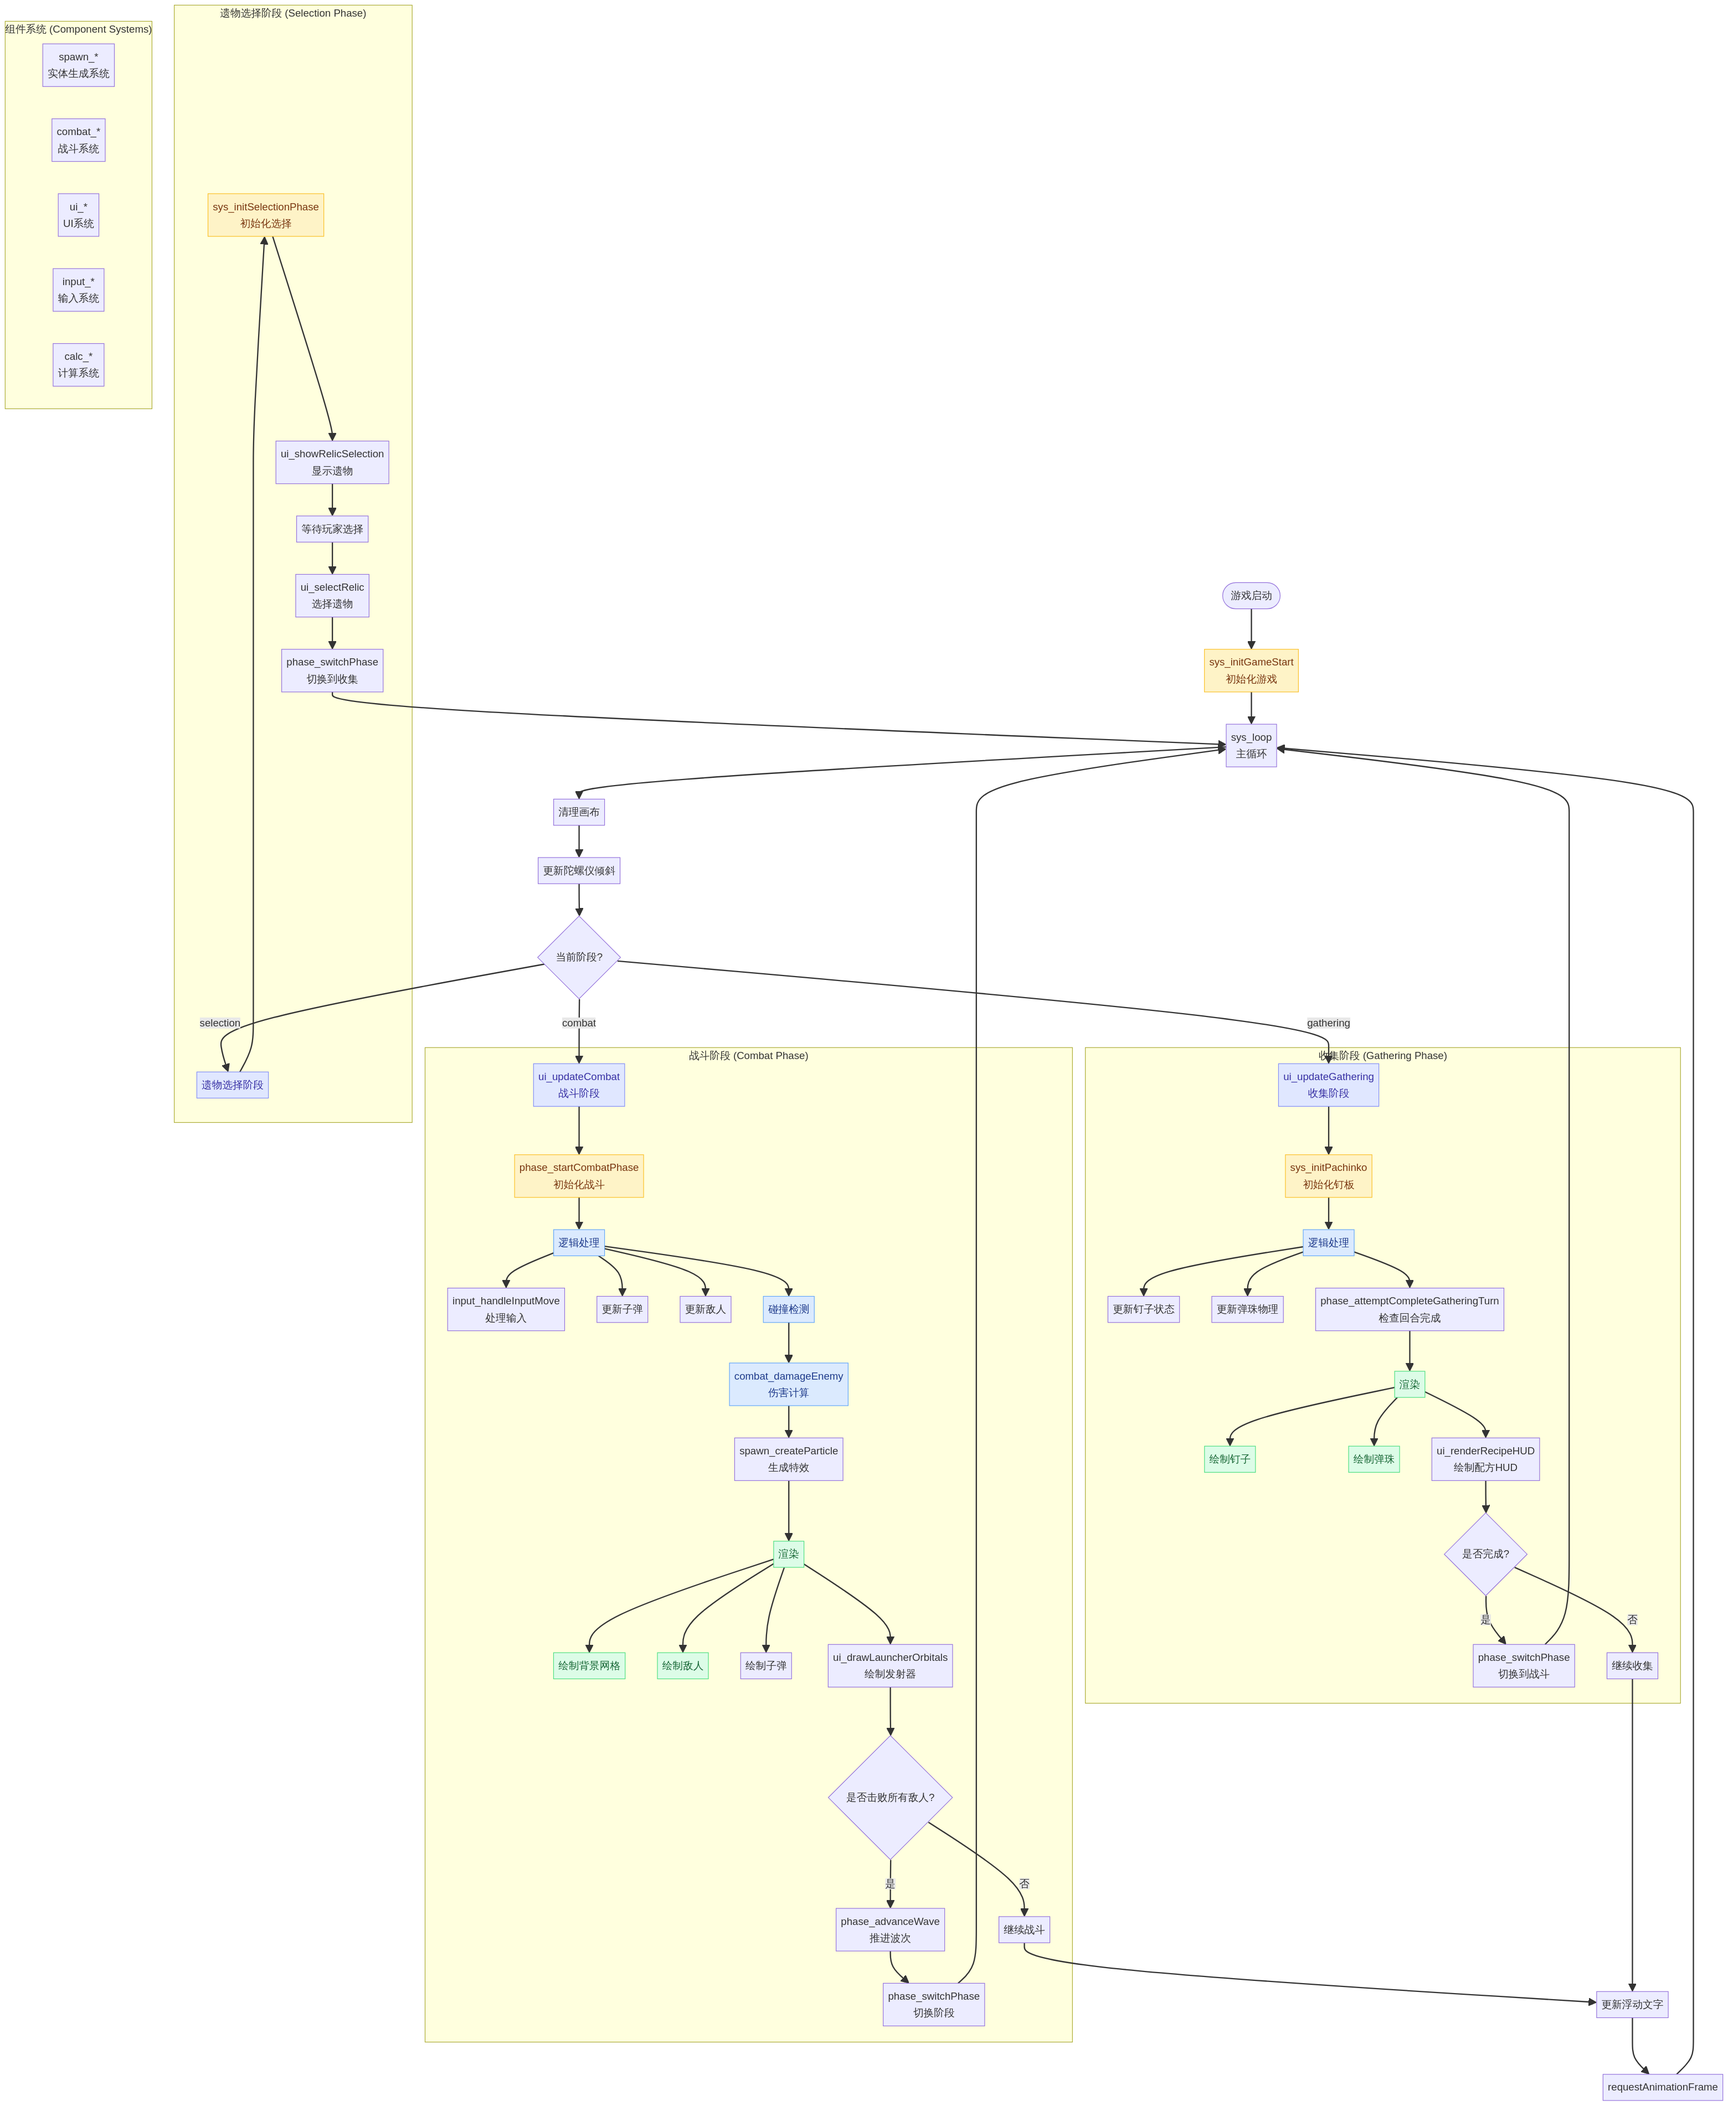
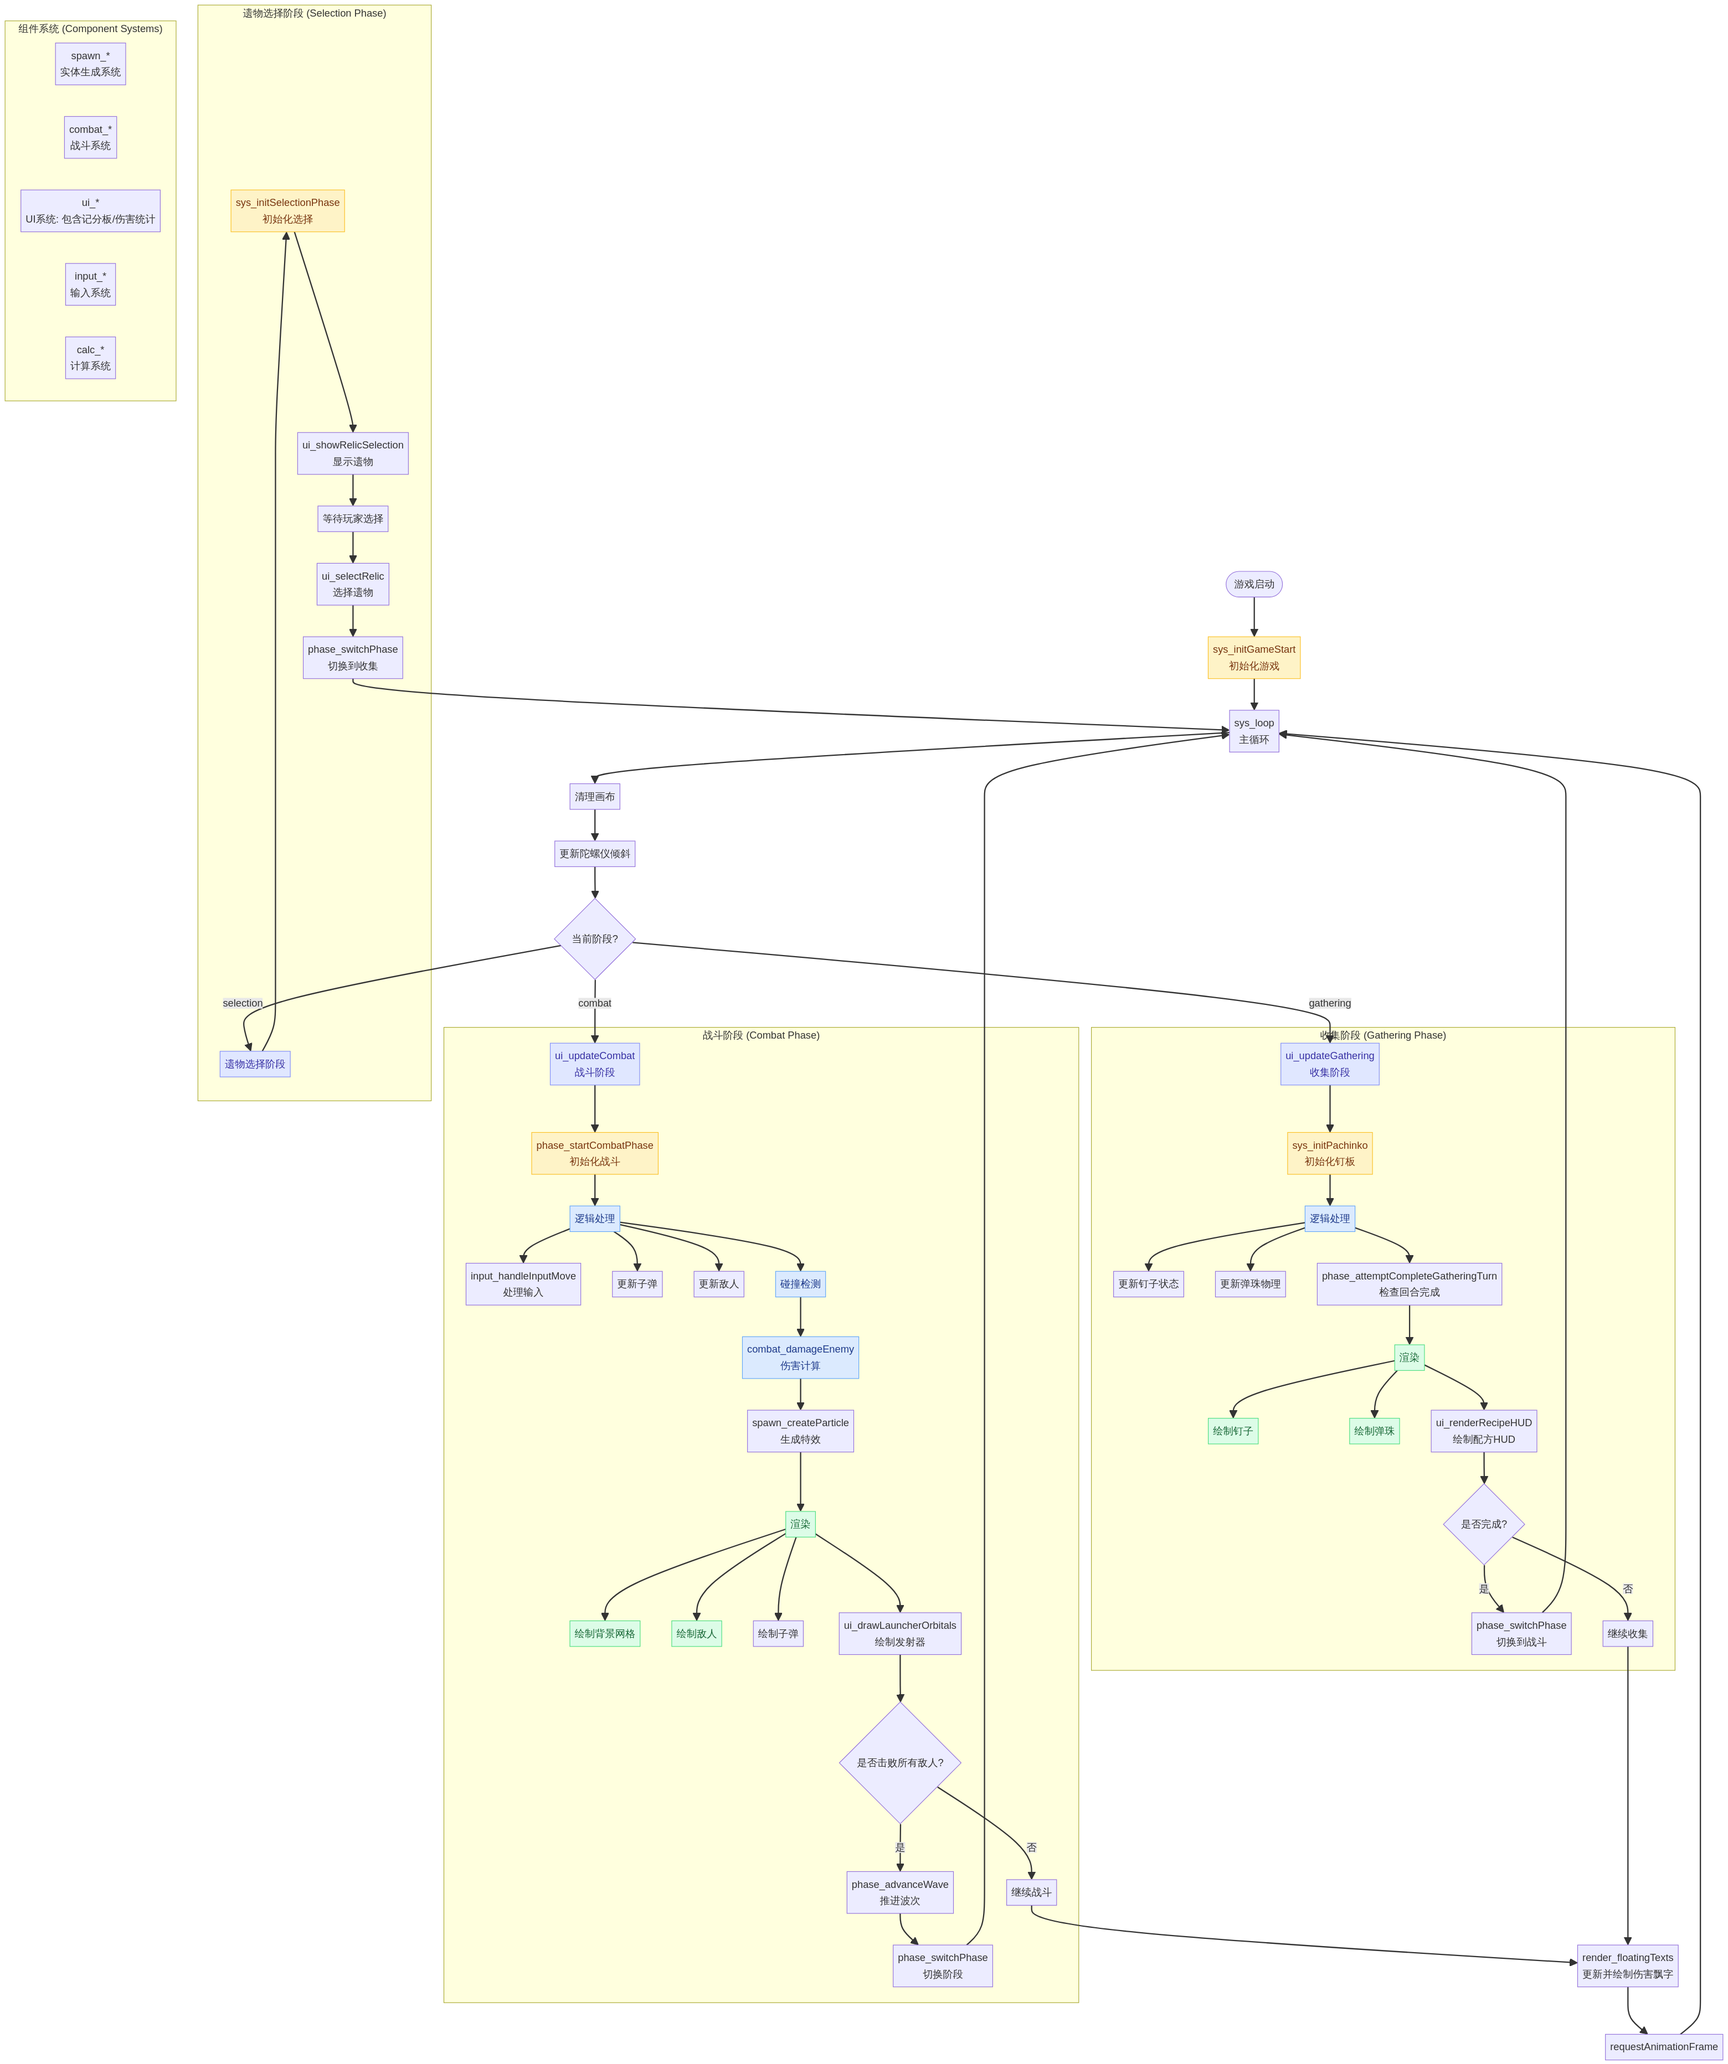
docs: update README and architecture diagram with scoreboard and floating text

diff --git a/README.md b/README.md
@@ -45,6 +45,7 @@
 | **`DropBall`** | 收集阶段弹珠，处理物理模拟与钉板交互。 | `handlePegInteraction`, `update`, `draw` |
 | **`SoundManager`** | 音频引擎，基于 Web Audio API 合成音效。 | `playEffect`, `playTone`, `playHit` |
 | **`UIManager`** | UI 状态管理，处理 DOM 更新与交互。 | `updateSkillBar`, `showEnemyInfo`, `switchTab` |
+| **`FloatingText`** | 浮动文字特效类，用于显示伤害数字和得分。 | `update`, `draw` |
 
 ## 3. 全局配置与数据库 (Global Config & DB)
 
@@ -139,6 +140,8 @@
 | `calc_processSingleEnemyTurn` | `phase_enemy_processTurn` | 敌人AI：处理单回合逻辑 |
 | `ui_updateCombat` | `phase_combat_update` | 战斗阶段：更新逻辑 |
 | `ui_updateGathering` | `phase_gathering_update` | 收集阶段：更新逻辑 |
+| `ui_toggleDamagePanel` | `ui_toggleDamagePanel` | 切换伤害统计面板（记分板） |
+| `ui_updateDamageStats` | `ui_updateDamageStats` | 更新伤害统计数据 |
 
 ### 8.2 渲染流程抽象
 
